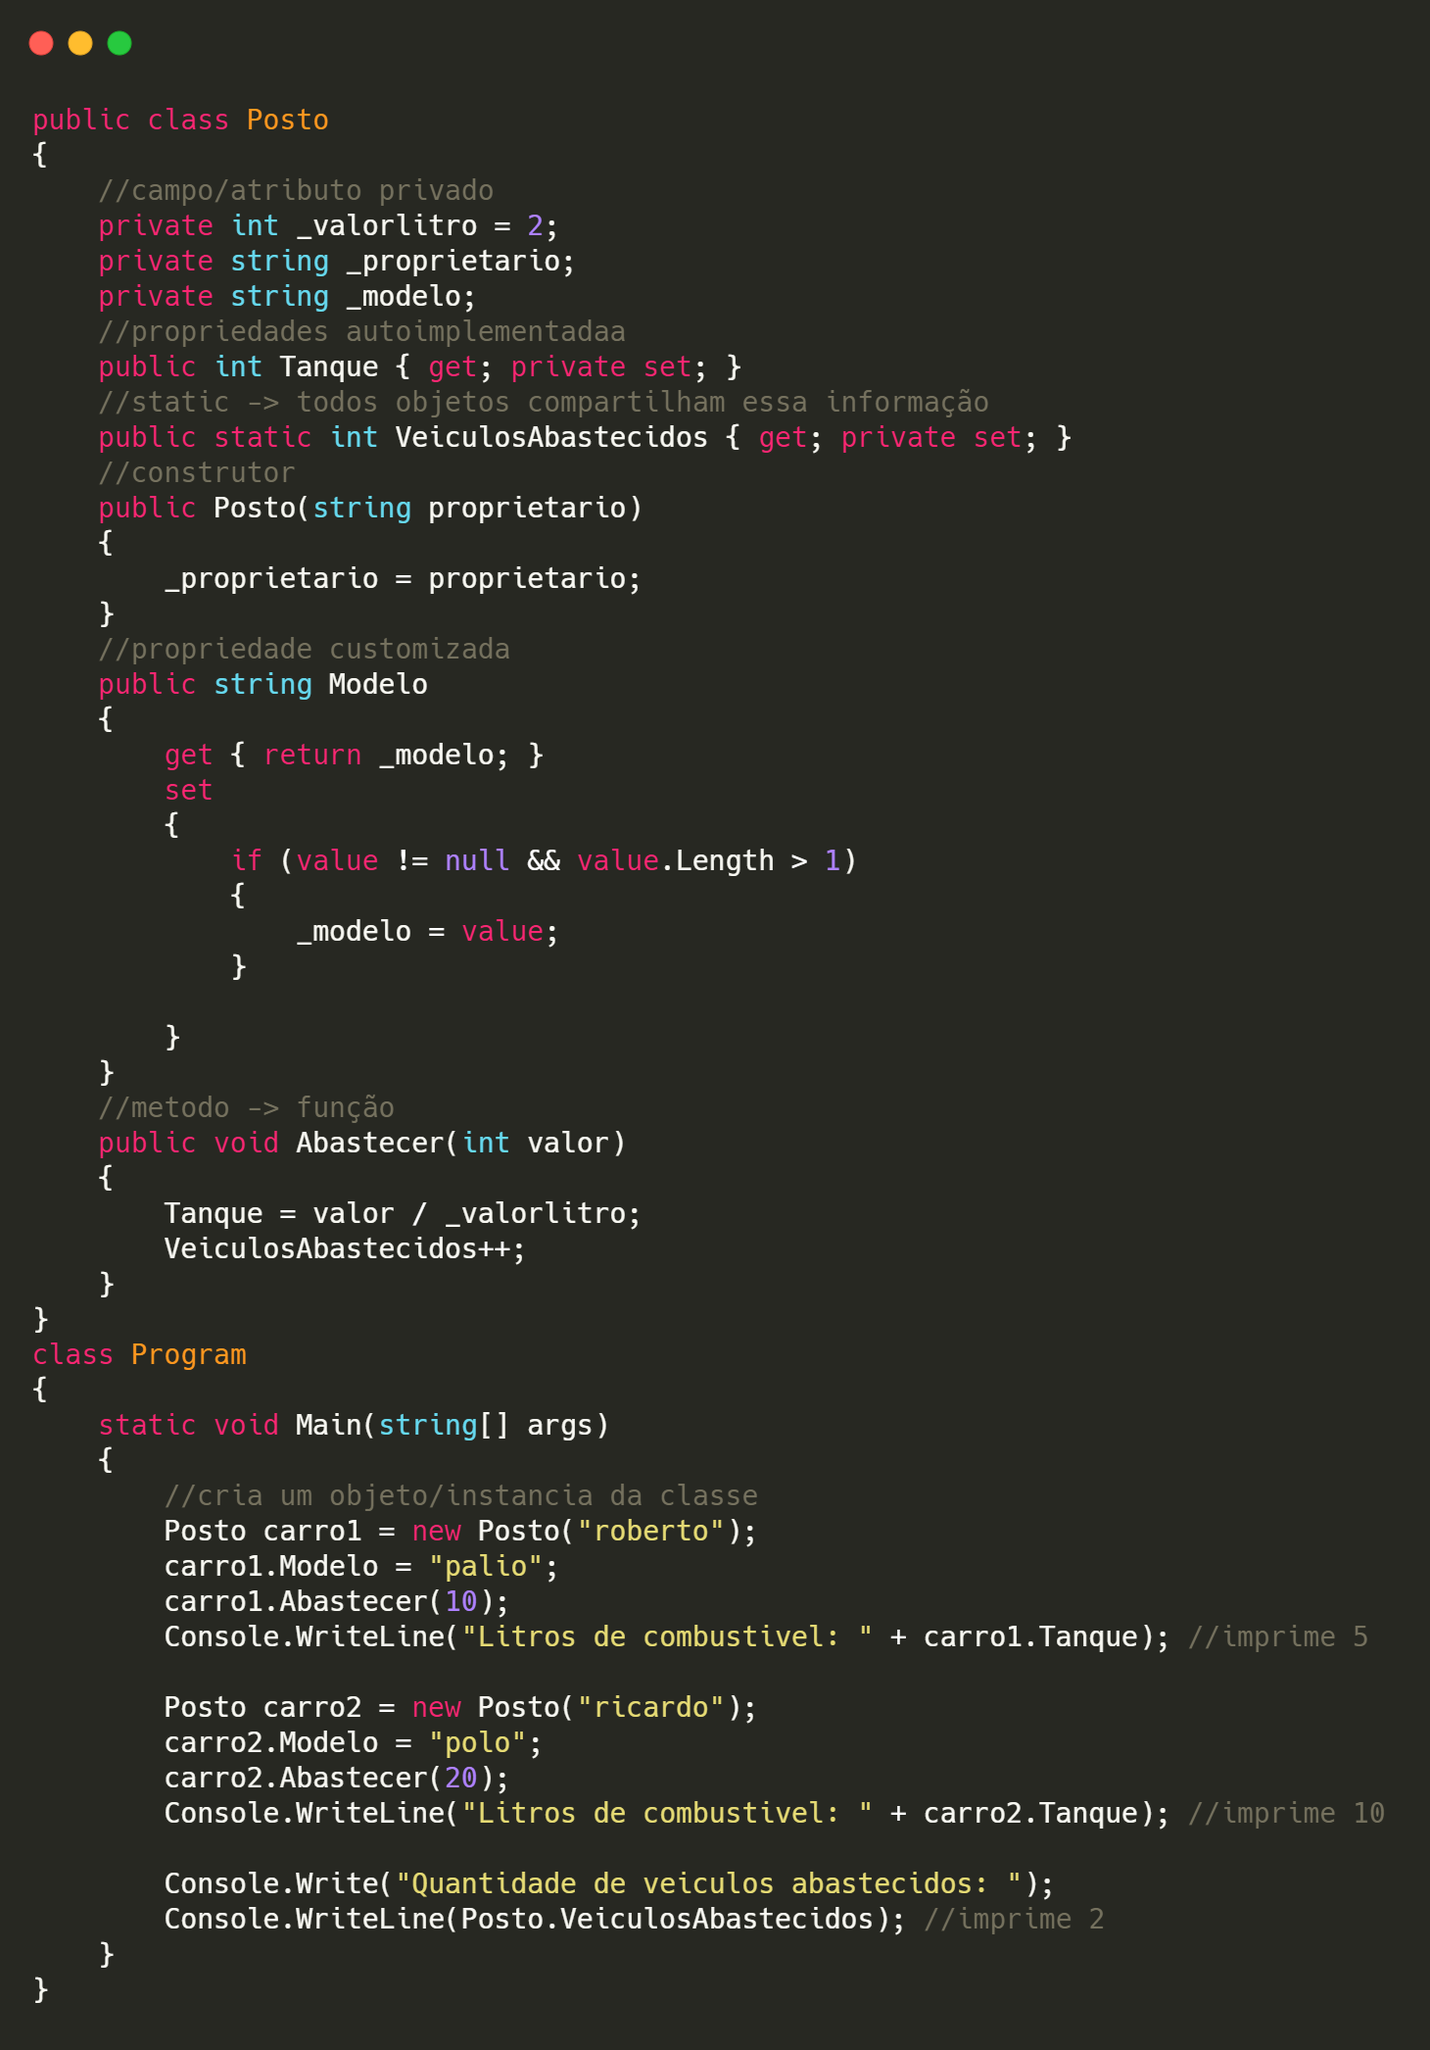
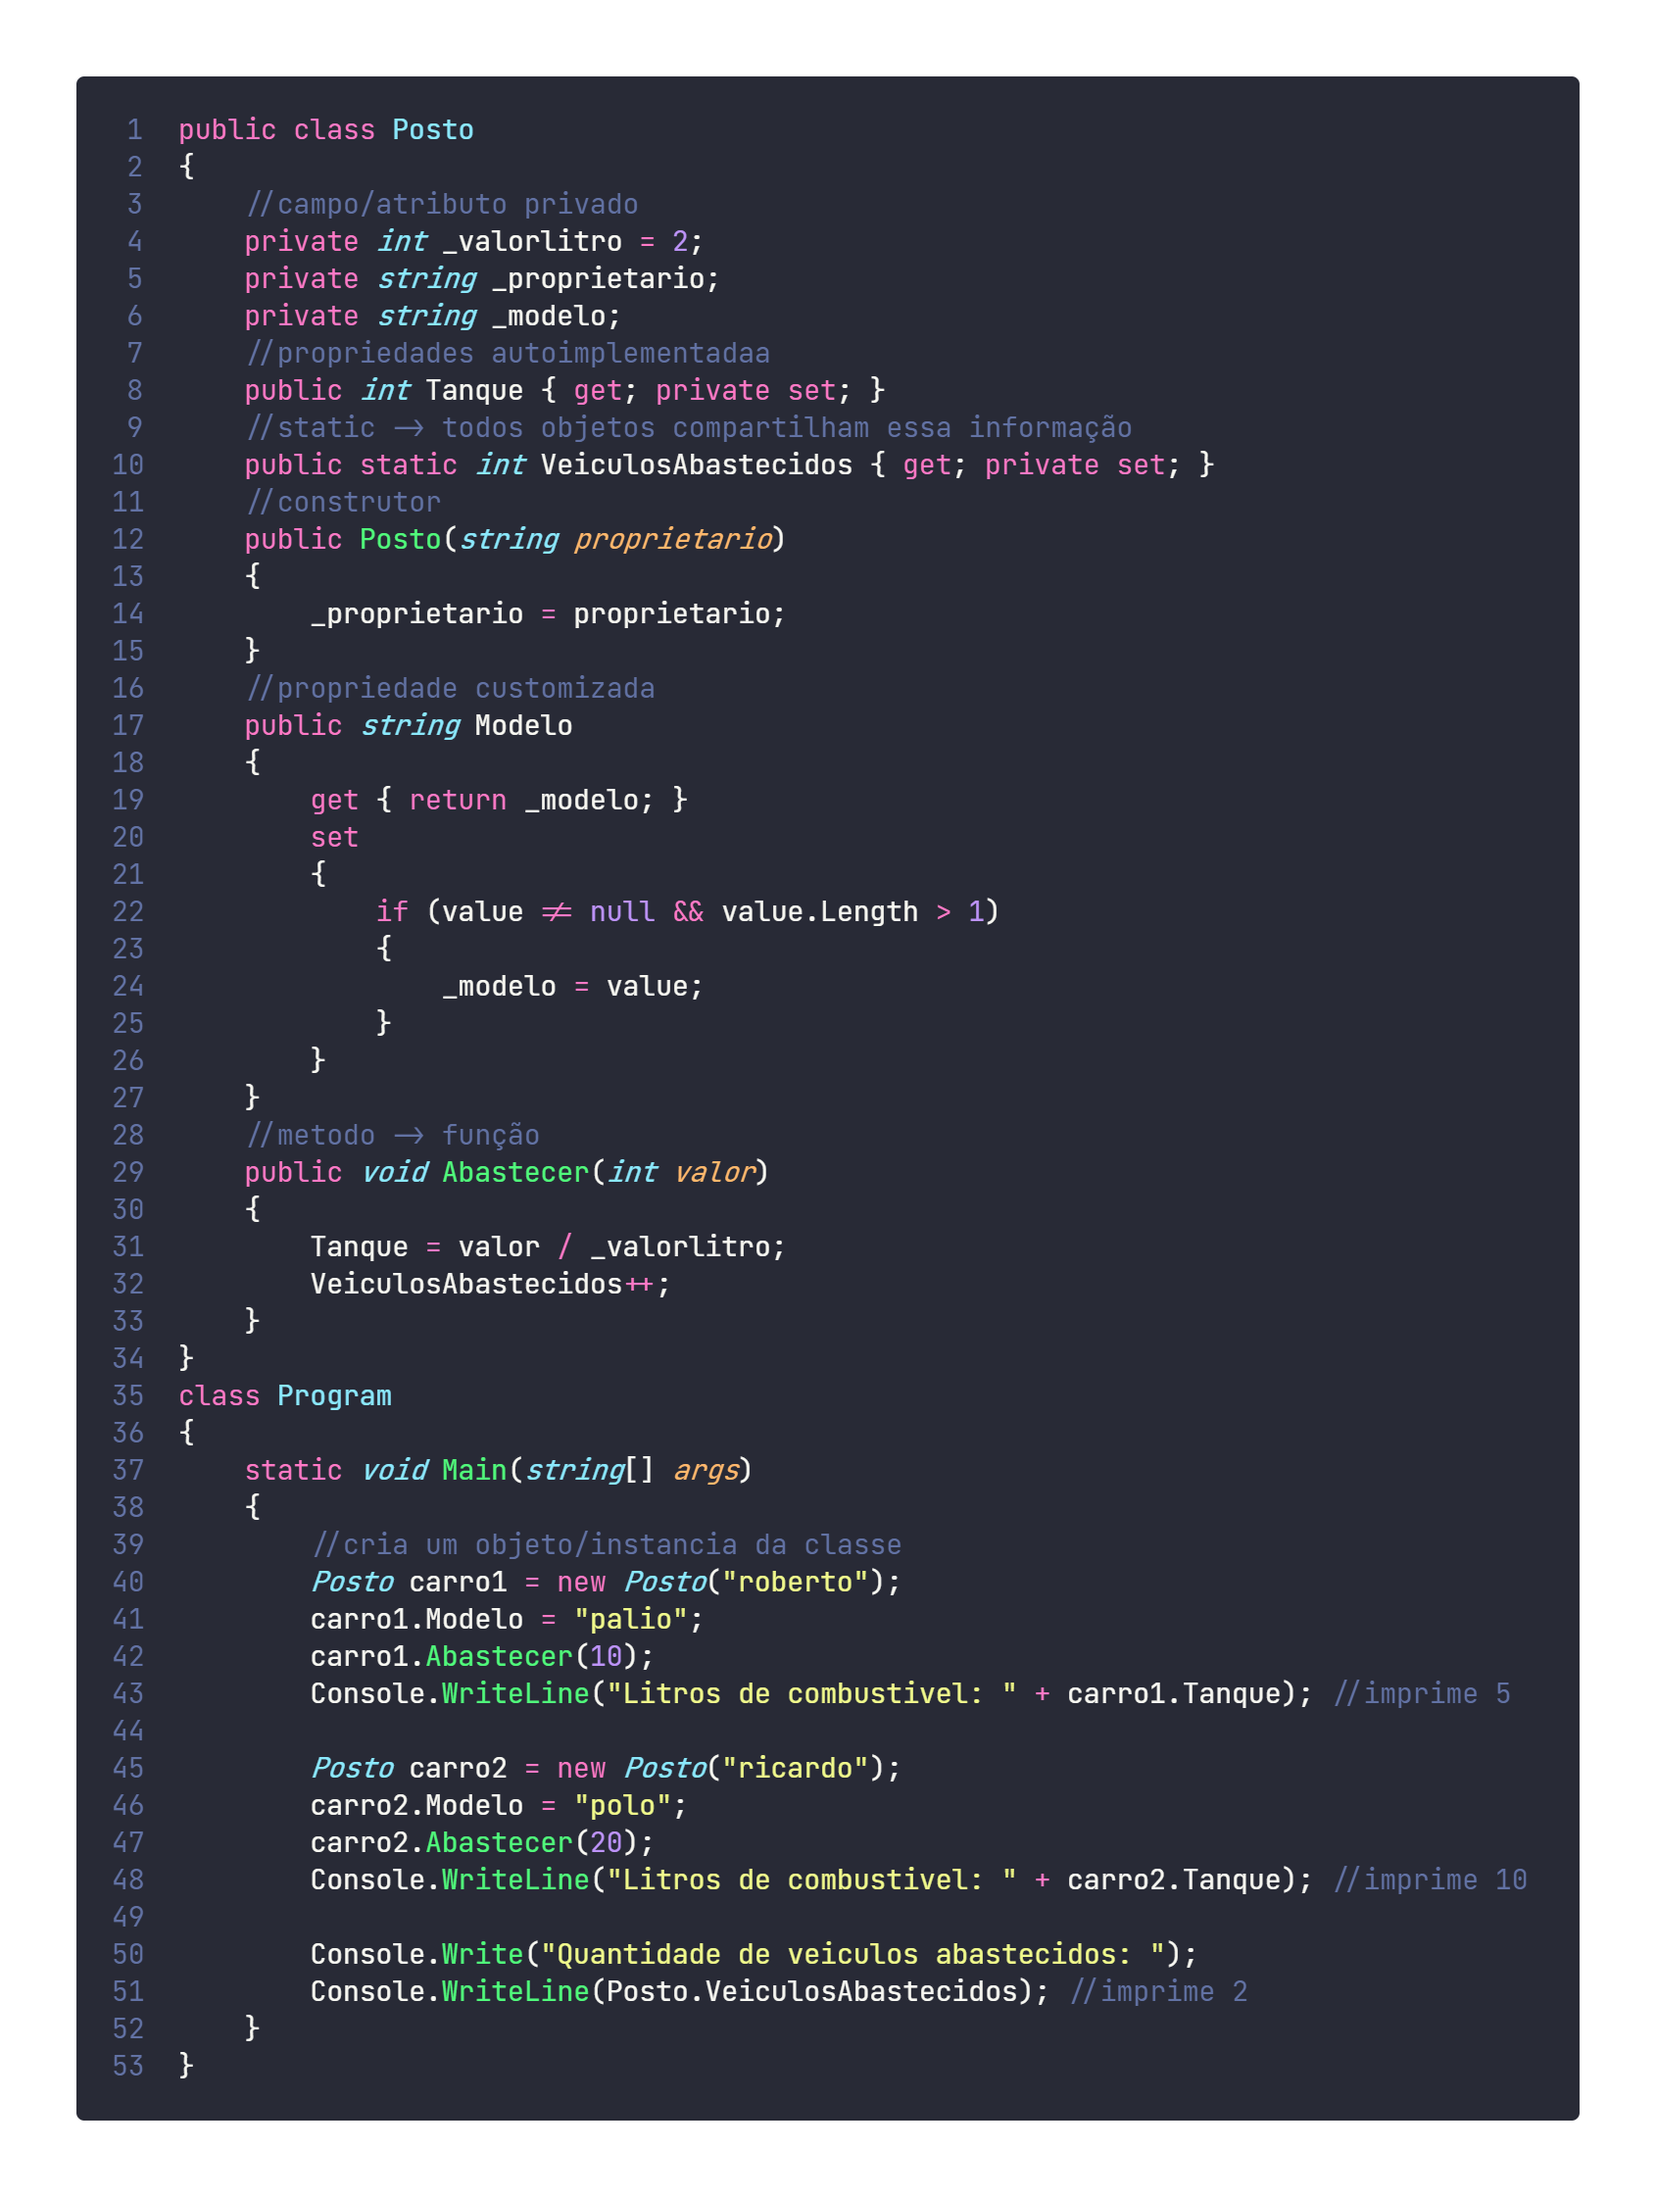
att post poo

diff --git a/content/post/programacao-orientada-a-objetos-csharp.md b/content/post/programacao-orientada-a-objetos-csharp.md
@@ -1,4 +1,4 @@
-+++ 
++++
 title = "Programação orientada a objetos com C#"
 date = 2021-04-10T23:29:36-03:00
 draft = false
@@ -8,13 +8,11 @@ categoria = [
     "Programação",
 ]
 +++
-## Programação orientada orientada a objetos
 
-### Definição
+## Definição
+Programação orientada orientada a objeto (POO), do inglês Object Oriented Programming (OOP), é um paradigma aplicado na programação que consiste na interação entre diversas unidades chamadas de objetos.
 
-Programação orientada orientada a objeto (POO), do inglês Object Oriented Programming (OOP),  é um paradigma aplicado na programação que consiste na interação entre diversas unidades chamadas de objetos.
-
-**Classe:**  Uma classe define os membros e a estrutura que os objetos deste tipo de classe devem seguir.
+**Classe:** Uma classe define os membros e a estrutura que os objetos deste tipo de classe devem seguir.
 
 **Objeto:** Objetos são instâncias de classes, que determinam qual informação um objeto contém e como ele pode manipulá-la. Em resumo é uma abstração de algum modelo real dentro do nosso sistema.
 
@@ -24,57 +22,51 @@ Um programa pode criar vários objetos da mesma classe.
 
 > As classes na orientação a objetos funcionam como um molde para os objetos. Os objetos são criados a partir de uma classe e muitos deles podem ser feitos da mesma classe.
 
-Observação: Neste artigo irei utilizar a linguagem C# como exemplo, mas a ideia é a mesma em outras linguagens, só mudando um pouco a sintaxe.
+Observação: Neste artigo irei utilizar a linguagem C# como exemplo, mas a essencia é a mesma em outras linguagens, só mudando um a sintaxe.
+## Benefícios
+- **Reutilização de código:** Com POO, não precisamos repetir o código de criação dos campos basta reutilizar a classe.
 
-### Benefícios
-
-- **Reutilização de código:** Com POO, não precisamos repetir o código de criação dos campos, basta reutilizar a classe.
 - **Organização do código:** Encontrar e organizar o código se torna muito mais simples.
-- **Manutenção**: Com o código centralizado nas classes, as manutenções e alterações para novos comportamentos são pontuais.
 
+- **Manutenção**: Com o código centralizado nas classes as manutenções e alterações para novos comportamentos são pontuais.
 ## Os 4 pilares
-
 A programação orientada a objetos pode ser definida por quatro pilares principais, sendo eles herança, encapsulamento, abstração e polimorfismo.
 
-De maneira resumida
-
 - **Encapsulamento**: Agrupar variável e funções em pequenas e reutilizáveis partes do código.
-- **Abstração**: Reduzir a exposição dos objetos, escondendo os detalhes da implementação e expondo só o que é necessário.
-- **Herança**: Reaproveitar o código, para trazer características de um objeto pai para um filho.
-- **Polimorfismo**: Reutilizar a mesma propriedade do objeto pai, porém com algumas alterações.
 
+- **Abstração**: Reduzir a exposição dos objetos escondendo os detalhes da implementação e expondo somente o necessário
+
+- **Herança**: Reaproveitar o código, para trazer características de um objeto pai para um filho.
+
+- **Polimorfismo**: Reutilizar a mesma propriedade do objeto pai, porém com algumas alterações.
 ### Abstração
 
 Abstração é um conceito que oculta os detalhes da implementação e exibe apenas a funcionalidade para o usuário.
 
-Dessa forma, reduz a complexidade do código, simplificando e focando no que realmente é importante para a aplicação específica, mostrando somente aquilo que é relevante/necessário.
+Dessa forma, reduz a complexidade do código simplificando e focando no que realmente é importante para a aplicação específica mostrando somente aquilo que é relevante necessário.
 
 Exemplo na vida real: Ao clicar no interruptor você quer que a luz acenda ou apaga, não precisa saber o caminho da energia elétrica para acontecer essa ação, portanto isso é uma abstração.
-
 ### Encapsulamento
-
-É um princípio que consiste principalmente em agrupar dados (variáveis e metódos) que fazem sentido estar juntos e também em ocultar os detalhes de implementação de um componente dentro de uma classe,  expondo apenas operações seguras e que o mantenha em um estado consistente.
-
+É um princípio que consiste principalmente em agrupar dados (variáveis e metódos) que fazem sentido estar juntos e também em ocultar os detalhes de implementação de um componente dentro de uma classe, expondo apenas operações seguras e que o mantenha em um estado consistente.
 #### Tipos de encapsulamento
 
-**Público:** Indica que todos as outras classes tem acesso a esse atributo, função ou classe.
+- **Público:** Indica que todos as outras classes tem acesso a esse atributo, função ou classe.
 
-**Privado:** Indica que somente a classe que foram declarados tem acesso ao atributo, função ou subclasse.
+- **Privado:** Indica que somente a classe que foram declarados tem acesso ao atributo, função ou subclasse.
 
-**Protegido:** Indica que somente a própria classe ou classes herdadas (subclasses) dela 44que podem ser acessadas.
+- **Protegido:** Indica que somente a própria classe ou classes herdadas (subclasses) dela que podem ser acessadas.
 
 #### Getters, setters e construtores
 
 Em C# os dados do objeto são expostos por meio de getter e setters de propriedades.
 
-**Getter:** Método “GET”, significa “pegar”, ou seja, obter o valor da variável.
+- **Getter:** Método “GET”, significa “pegar”, ou seja, obter o valor da variável.
 
-**Setter:** Método “SET”, altera a variável para novos valores.
+- **Setter:** Método “SET”, altera a variável para novos valores.
 
-Para garantir a obrigatoriedade de que o objeto receba dados / dependências no momento de sua instanciação devemos utilizar o construtor.
+Para garantir a obrigatoriedade de que o objeto receba dados dependências no momento de sua instanciação devemos util zar o construtor.
 
-**Construtor:** Método de construção de atributos necessários quando o Objeto é instanciado.
-
+- **Construtor:** Método de construção de atributos necessários quando o Objeto é instanciado.
 #### Ordem sugerida para implementação de membros
 
 1. Atributos privados
@@ -87,36 +79,49 @@ Confira um exemplo utilizando os conceitos de abstração e encapsulamento na pr
 
 ![POO - Encapsulation](https://almeidamatheus.netlify.app/uploads/21/04/poo1.png)
 
+A ideia do programa acima é criar alguns atributos privados para serem utilizados somente na classe posto e 2 propriedades autoimplementadas com a função get pública e o set privado, ou seja, fora da classe é possível obter os valores mas não altera-los.
+
+Existe um construtor da classe, então quando for criar um objeto da classe deve-se se passar o parametro exigido, que no caso é o `proprietario` do carro.
+
+Temos uma propriedade customizada (`Modelo`), que retorna o `modelo` e também modifica o valor do `modelo`, desde que satisfação a condição estipulada (diferente de nulo e maior que 1 caractere).
+
+Temos também a função `Abastecer` que recebe como parâmetro o valor, e esse valor utilizamos para calcular quantos litros de tanque será enchido, considerando que o valor do litro é 2 reais.
+
+Vale ressaltar que toda vez que essa função é invocada, é acrescentado mais um no valor do membro estático `VeiculosAbastecidos`, como trata-se de uma operação estática, sempre que obter o seu valor, ele irá sempre ter o mesmo resultado independente de objeto, já que não é atrelado especificamente a um objeto.
 ### Herança
 
 Herança é um conceito que possibilita uma classe herda as propriedades e métodos de outra classe, dessa forma você pode extender e criar variações de uma classe semelhante e relacionada, sendo assim evita a duplicação de código.
 
 A ideia é a classe derivada "filha" possa herdar propriedades e métodos de uma classe "pai", dessa forma você pode extender, criar variações, fazendo assim melhor reuso do código.
 
-Imagine exista uma classe chamada Veiculo que contém várias informações como motor, rodas, airbag, retrovisor. Supondo que você queira cadastrar um carro de auto escola, ao invés de criar uma classe com todos os elementos de um veiculo, é mais interessante herdar as características em comum da classe Veiculo e incrementar novas informações, dessa forma aplica o conceito herança de uma forma eficaz melhorando a legibilidade e evitando a duplicação de características entre as classes. Nesse caso a classe Veiculo e a classe do carro de auto escola são entidades com relacionamento pai e filho respectivamente.
+Imagine exista uma classe chamada `Veiculo` que contém várias informações como `motor`, `rodas`, `airbag`. Supondo que você queira cadastrar um carro de auto escola, ao invés de criar uma classe com todos os elementos de um veiculo, é mais interessante herdar as características em comum da classe `Veiculo` e incrementar novas informações, dessa forma aplica o conceito herança de uma forma eficaz melhorando a legibilidade e evitando a duplicação de características comuns entre as classes. Nesse caso a classe `Veiculo` e a classe `CarroAutoEscola` são entidades com relacionamento pai e filho respectivamente.
 
 Exemplo utilizando conceitos de herança na prática:
 
 ![POO - Inheritance](https://almeidamatheus.netlify.app/uploads/21/04/poo2.png)
 
 Sintaxe:
-
 - : (estende)
-- base (referência para a superclasse)
 
+- base (referência para a superclasse)
 ### Polimorfismo
 
-É uma funcionalidade no qual objetos relacionados se comportam de maneiras distinta em razão da capacidade de invocar métodos comuns que possuem comportamento específicos para cada tipo do objeto. Portanto podemos invocar métodos comuns entre os objetos, onde cada objeto possuirá um comportamento diferente. 
+É uma funcionalidade no qual objetos relacionados se comportam de maneiras distinta em razão da capacidade de invocar métodos comuns que possuem comportamento específicos para cada tipo do objeto.Portanto podemos invocar métodos comuns entre os objetos, onde cada objeto possuirá um comportamento diferente.
 
 O C# faz uso de método virtuais (com a palavra-chave virtual) que podem ser reimplementados (com a palavra-chave override) nas classes filhas.
 
+
 Exemplo utilizando conceitos de polimorfismo na prática:
+
 
 ![POO - Polymorphism](https://almeidamatheus.netlify.app/uploads/21/04/poo3.png)
 
+A ideia do programa acima é criar uma classe `Carreta` que tem como base a classe `Veiculo`, nela temos a adição de um atributo (`Carroceria`) e tem a modificação da método `Rodas`, este retorna o valor retornado pela classe base com a adição de 4.
 
 Sintaxe:
 
 - base (reaproveitar a operação da superclasse e adicionar algo)
+
 - virtual (prefixo que indica que valor que será sobrescrito)
+
 - override (prefixo que indica que esse valor irá sobrepor o virtual)
